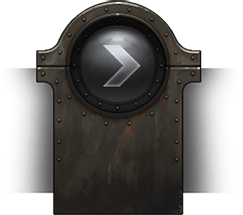
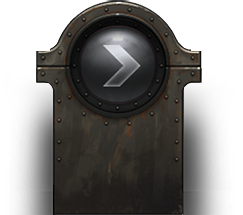
gallery small pictures

diff --git a/packages/client/src/sass/sections/slider.scss b/packages/client/src/sass/sections/slider.scss
@@ -179,11 +179,9 @@
 }
 
 .slide__image {
-  --d: 20;
-  height: 14vh;
-  left: 4.5vh;
-  // object-fit: cover;
-  // opacity: 0;
+
+  height: 13.9vh;
+  left: 4.4vh;
   pointer-events: none;
   position: absolute;
   top: 7vh;
